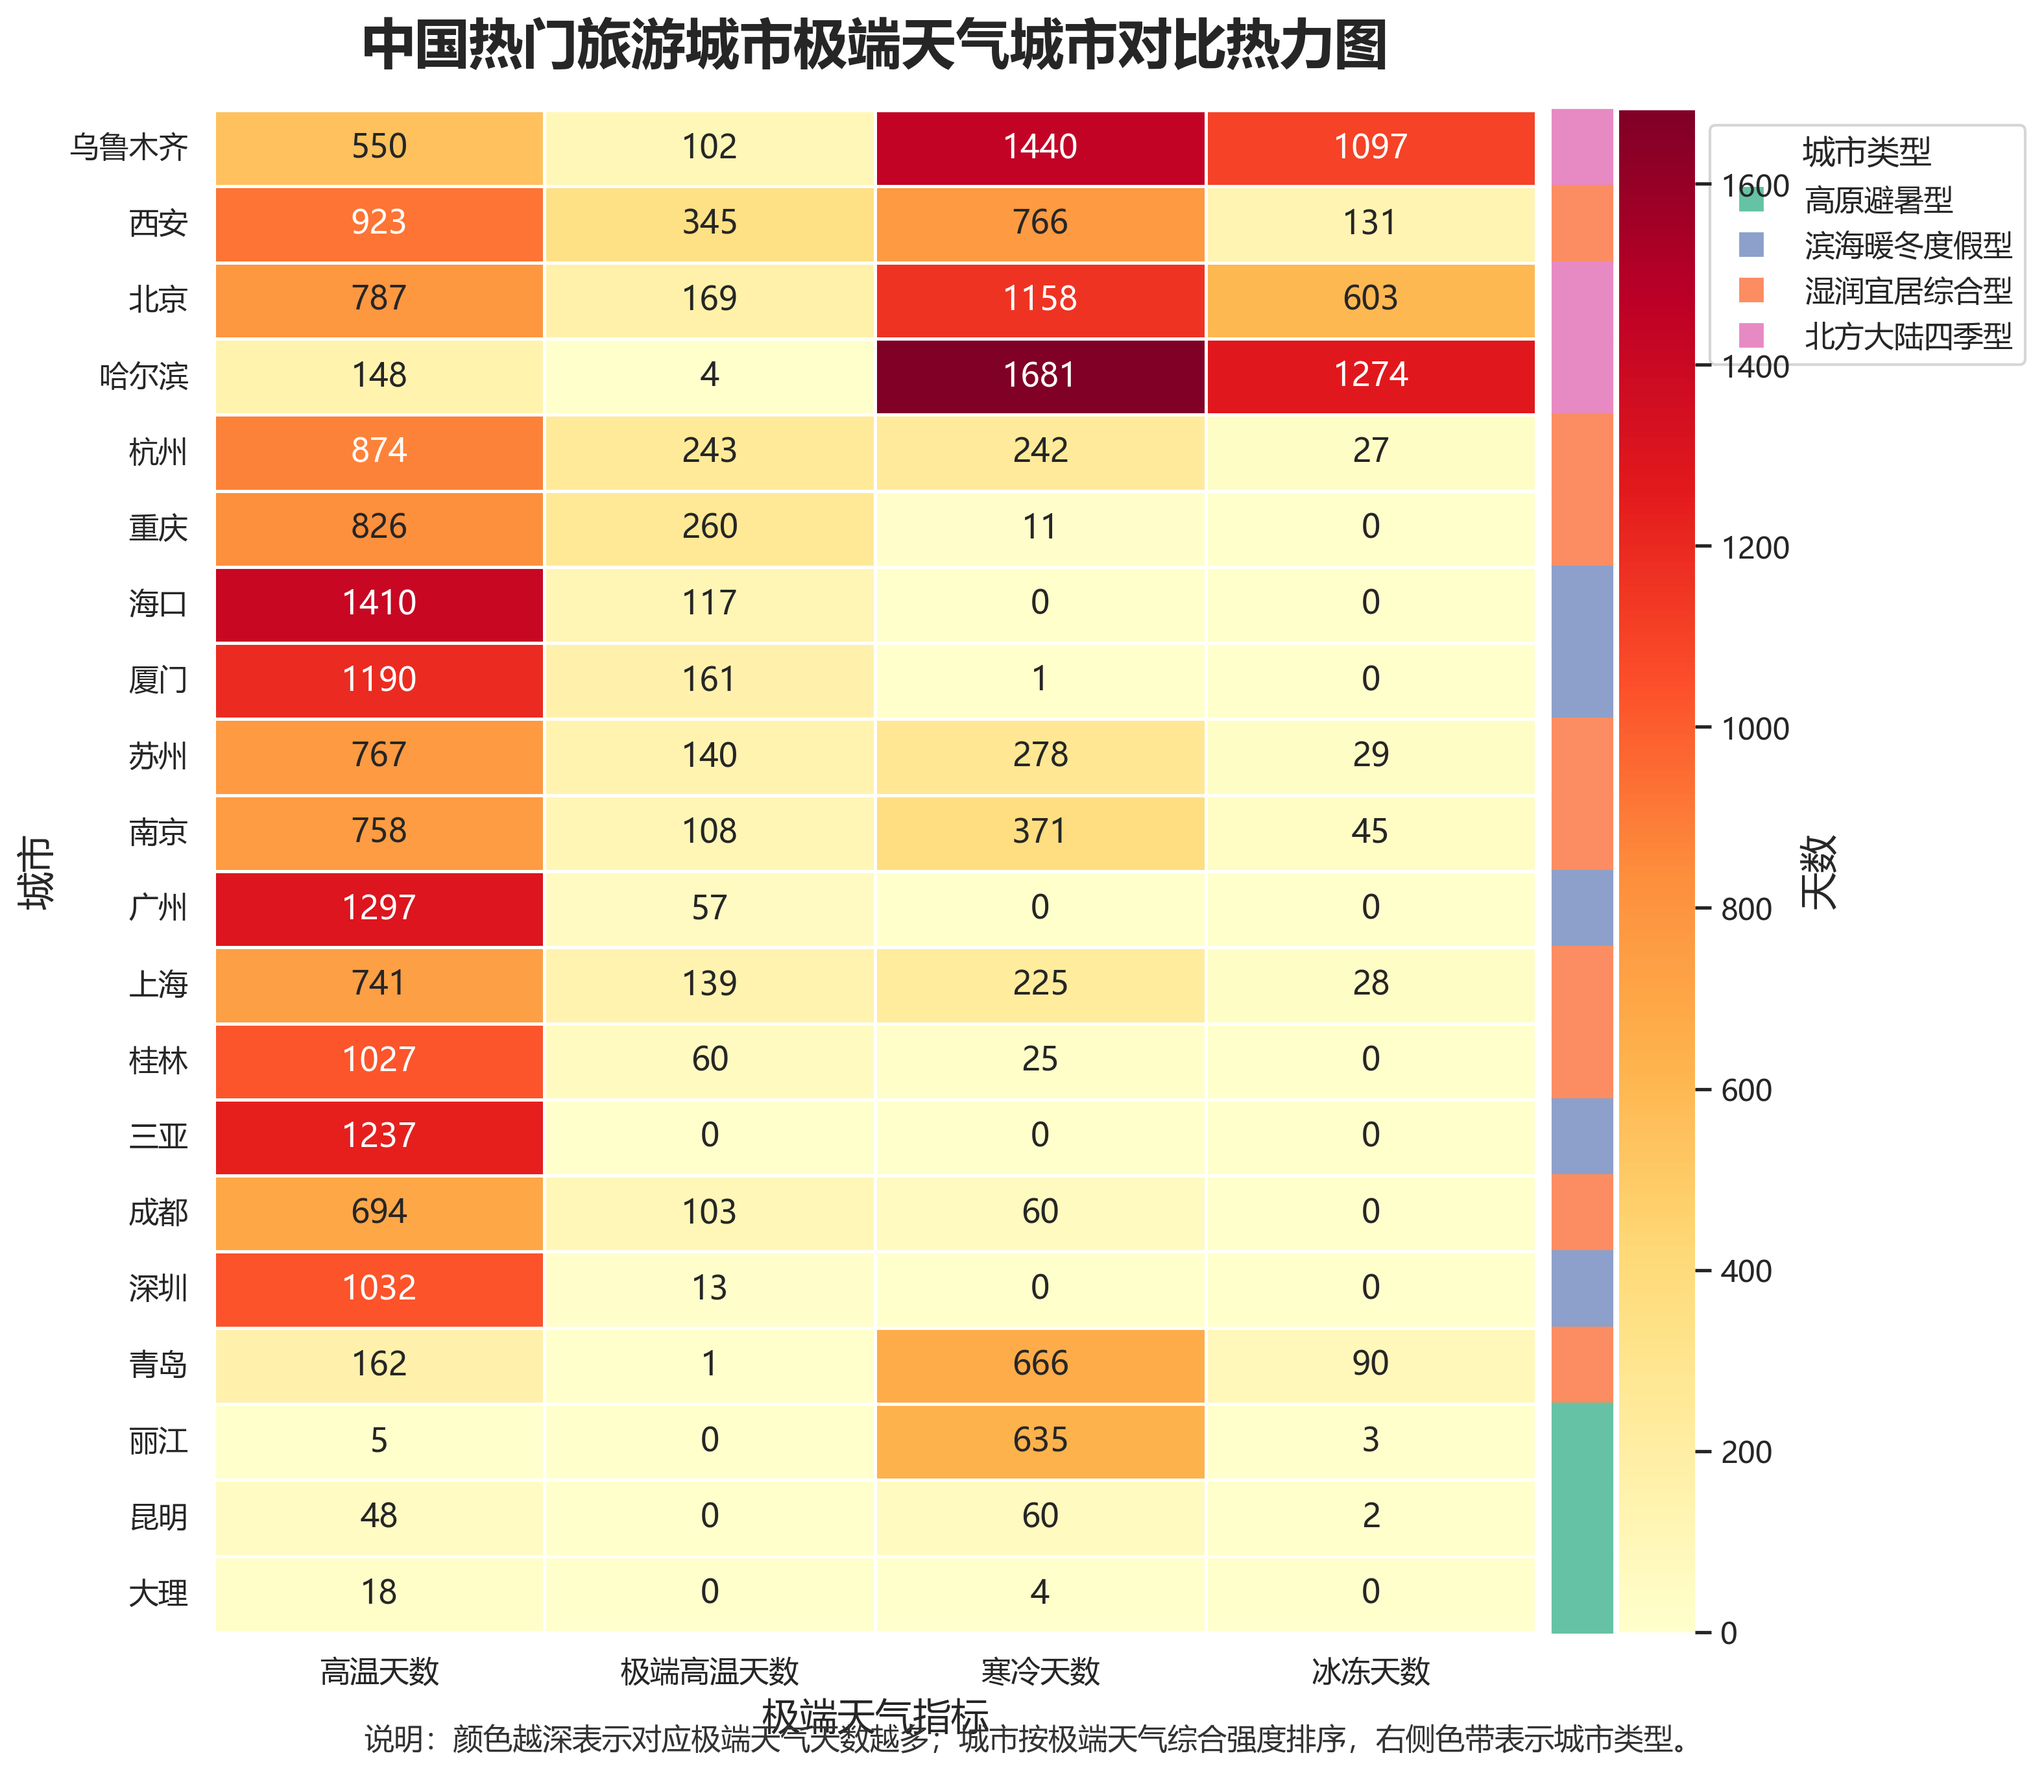
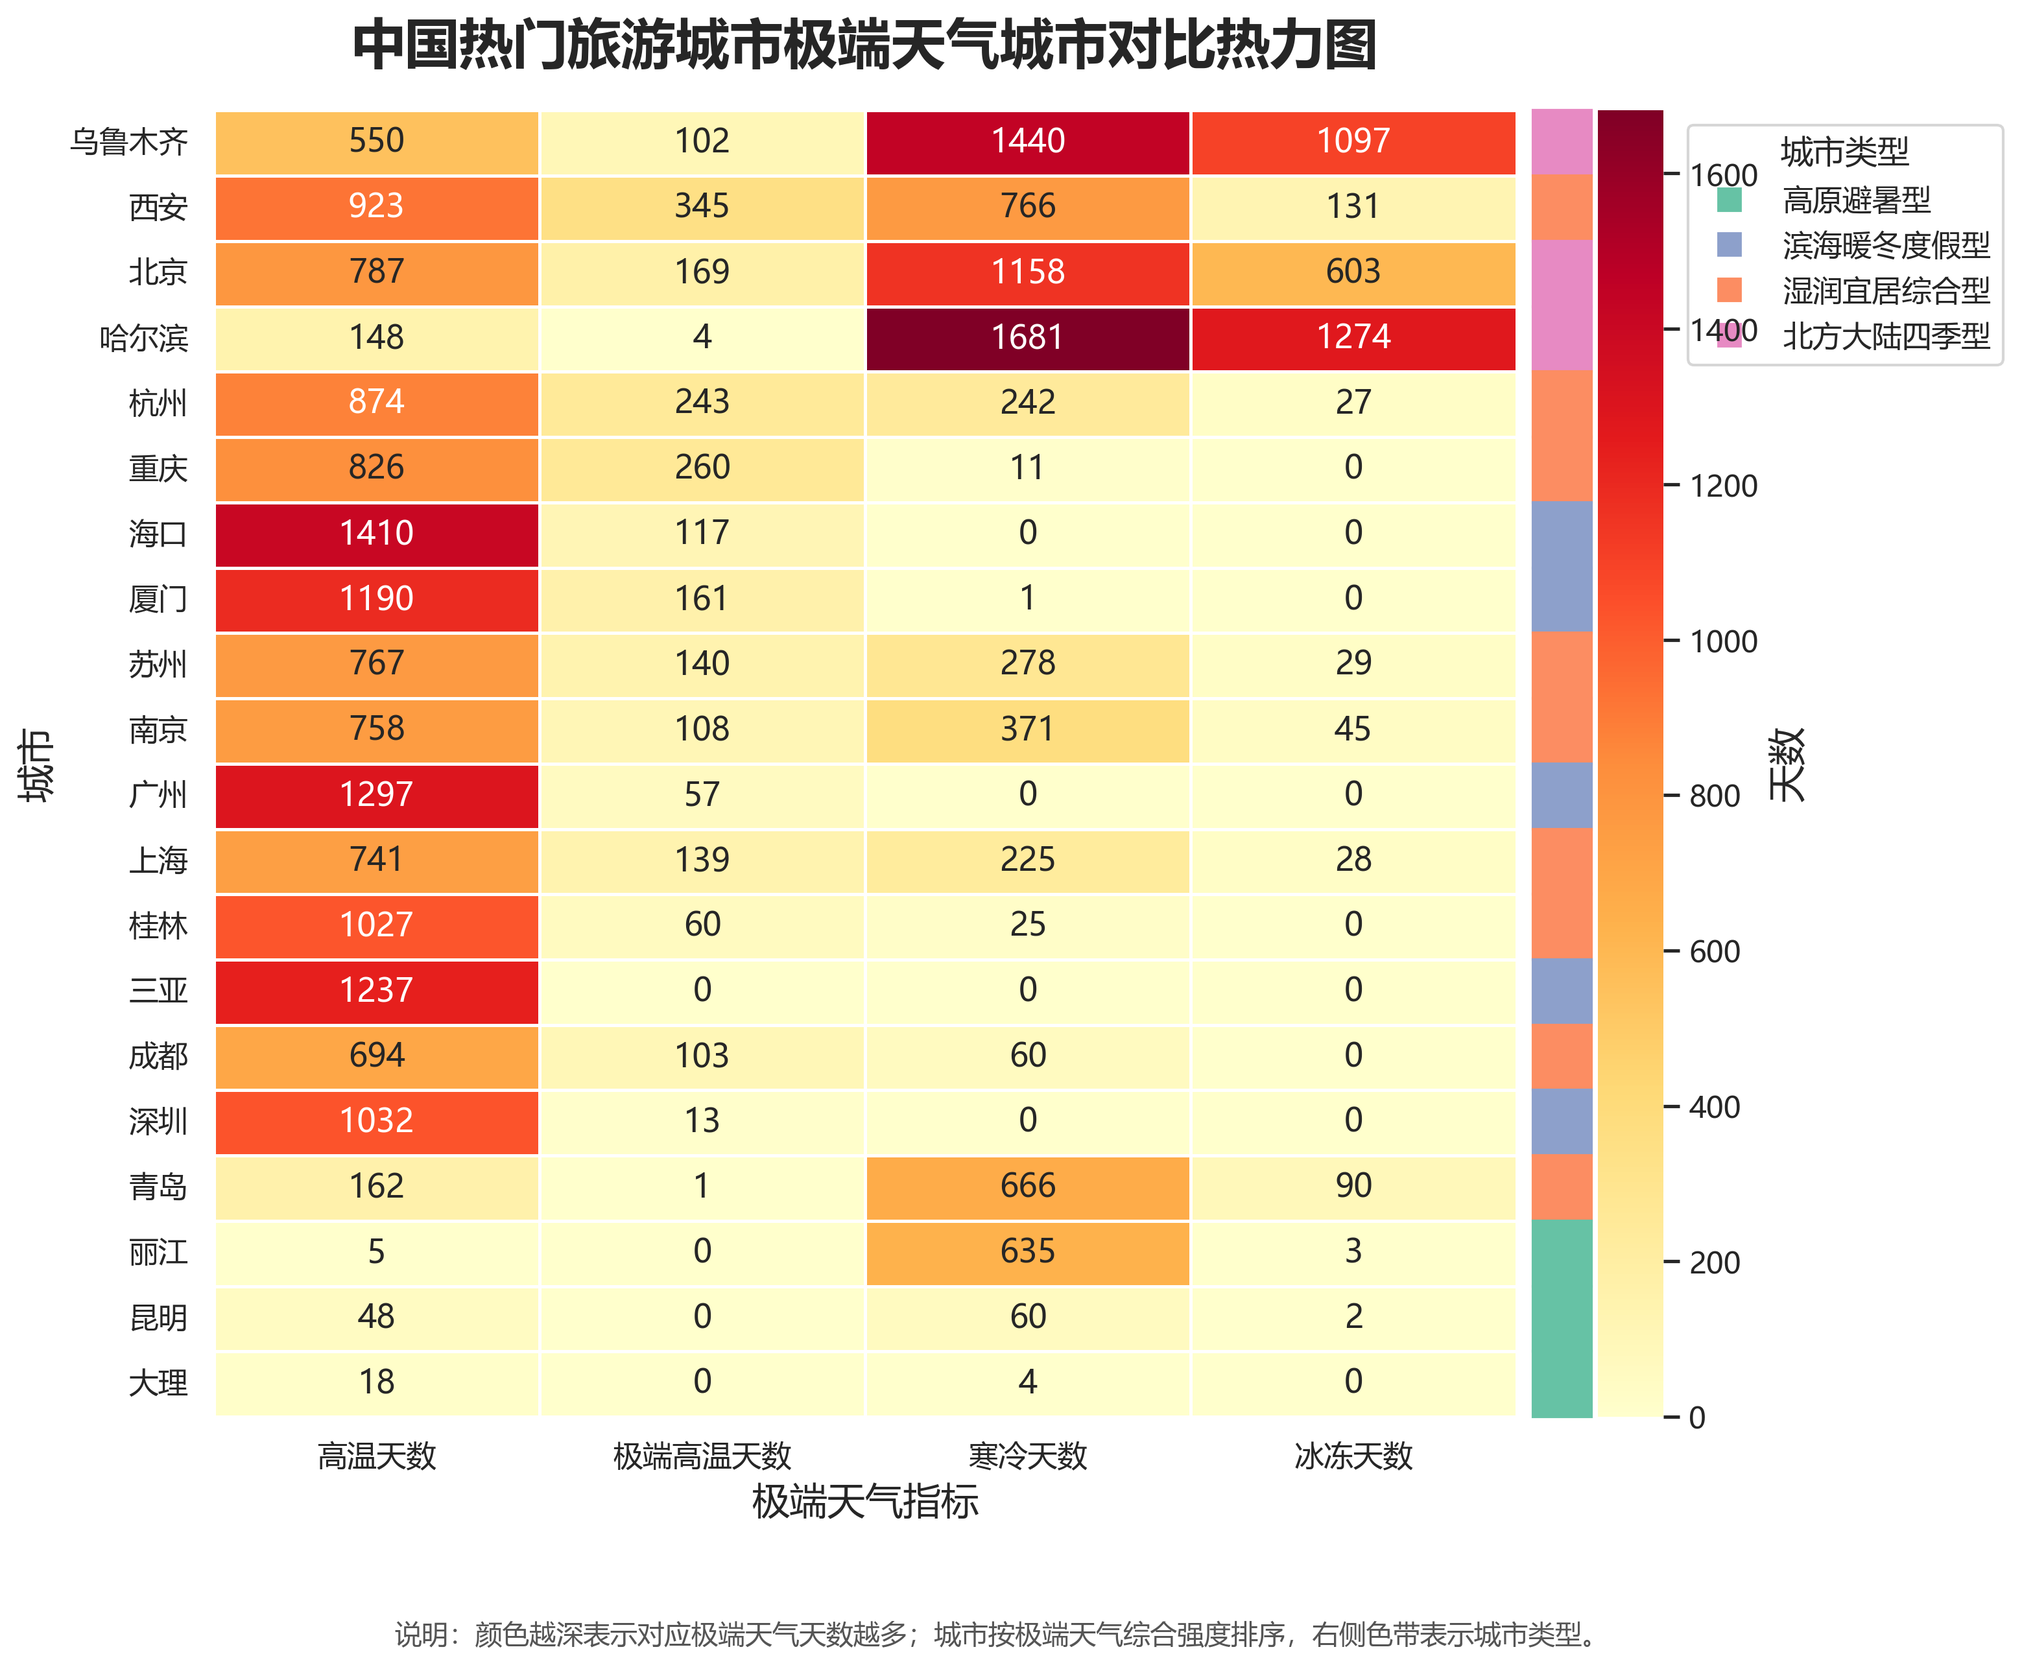
Update website interaction and city explorer

Changed region(s): [[0.0311, 0.0, 0.9955, 0.9946], [0.0, 0.4351, 0.0311, 0.5284]]

diff --git a/ds03_extreme_climate_mechanism.py b/ds03_extreme_climate_mechanism.py
@@ -138,21 +138,21 @@ def setup_style():
 
 def save_fig(filename):
     out_path = FIGURE_DIR / filename
-    plt.tight_layout()
     plt.savefig(out_path, dpi=300, bbox_inches="tight", facecolor="white")
     plt.close()
     print(f"已保存：{out_path}")
 
 
-def add_note(fig, text, y=0.03):
+def add_note(fig, text, y=0.02):
     fig.text(
         0.5,
         y,
         text,
         ha="center",
         va="bottom",
-        fontsize=11,
-        color="#333333",
+        fontsize=10,
+        color="#555555",
+        style="italic"
     )
 
 
@@ -271,12 +271,12 @@ def plot_ds03_1_extreme_weather_heatmap(df):
     add_note(
         fig,
         "说明：颜色越深表示对应极端天气天数越多；城市按极端天气综合强度排序，右侧色带表示城市类型。",
-        y=0.01,
+        y=0.02,
     )
 
     plot_df.to_csv(RESULT_DIR / "DS03_1_extreme_weather_table.csv", index=False, encoding="utf-8-sig")
 
-    plt.tight_layout(rect=[0, 0.04, 0.88, 1])
+    plt.subplots_adjust(bottom=0.15)
     save_fig("DS03_1_extreme_weather_city_heatmap.png")
 
 
@@ -380,20 +380,30 @@ def plot_ds03_2_extreme_driver_scatter(df):
         unique.keys(),
         title="城市类型",
         loc="upper center",
-        bbox_to_anchor=(0.5, 1.02),
+        bbox_to_anchor=(0.5, 0.91),
         ncol=4,
         frameon=True,
     )
 
-    fig.suptitle("中国热门旅游城市极端天气驱动关系分析", fontsize=20, fontweight="bold", y=1.08)
+    fig.suptitle(
+        "中国热门旅游城市极端天气驱动关系分析",
+        fontsize=20,
+        fontweight="bold",
+        y=0.96
+    )
 
     add_note(
         fig,
         "说明：每个点代表一个城市，虚线为线性趋势；该图用于识别高温和冰冻天气的主要气候关联因素。",
-        y=0.01,
+        y=0.02,
     )
 
-    plt.tight_layout(rect=[0, 0.04, 1, 0.98])
+    plt.subplots_adjust(
+        top=0.82,
+        bottom=0.18,
+        hspace=0.42,
+        wspace=0.22
+    )
     save_fig("DS03_2_extreme_weather_driver_scatter.png")
 
 
@@ -451,10 +461,10 @@ def plot_ds03_3_spatial_distribution(df):
     add_note(
         fig,
         "说明：气泡越大、颜色越深表示对应极端天气天数越多；左图突出南方与内陆高温差异，右图突出北方冰冻天气集聚。",
-        y=0.01,
+        y=0.02,
     )
 
-    plt.tight_layout(rect=[0, 0.04, 1, 0.96])
+    plt.subplots_adjust(bottom=0.25)
     save_fig("DS03_3_extreme_weather_spatial_distribution.png")
 
 
